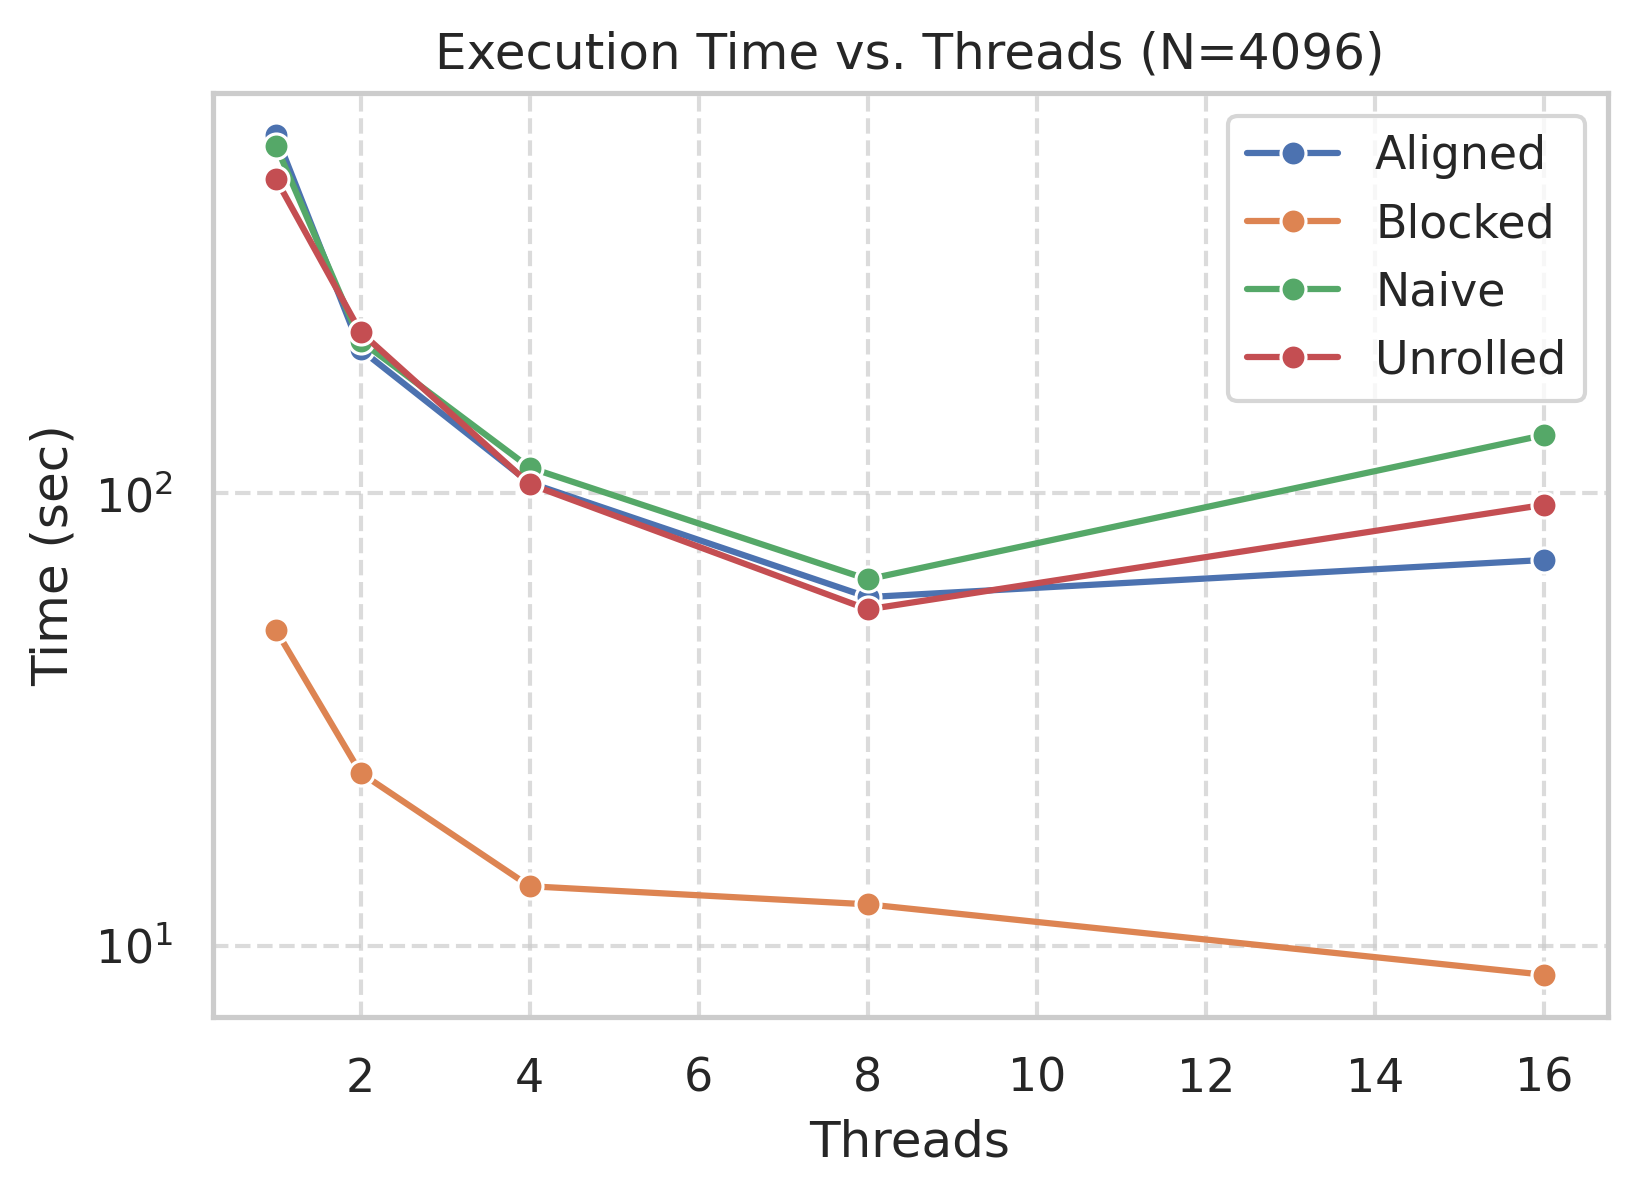
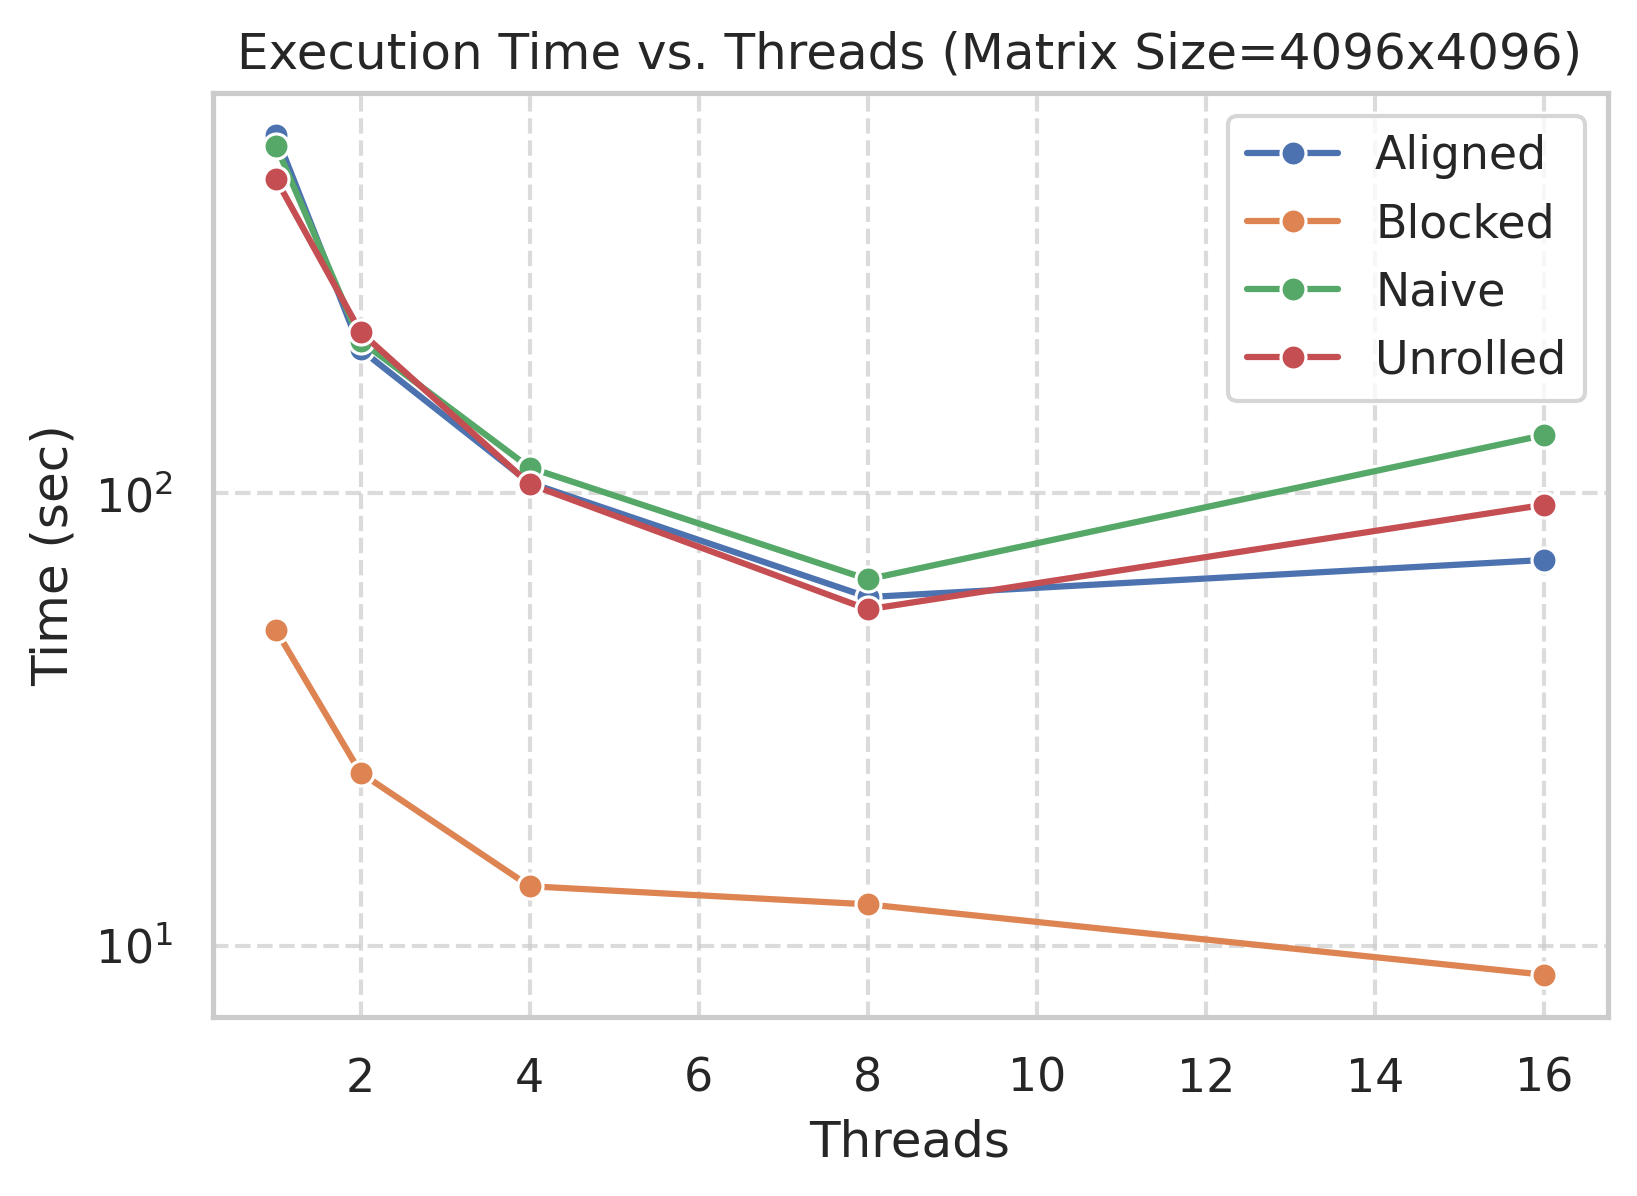
update graphs label

Changed region(s): [[0.1246, 0.0, 0.9658, 0.0619]]

diff --git a/logs/final_results/draw_graph.py b/logs/final_results/draw_graph.py
@@ -277,7 +277,7 @@ def plot_l1_percentage_separate(df_l1, graph_dir, dpi=300):
             data=subset, x="Threads", y="L1_dcache_Perc",
             hue="Implementation", marker="o"
         )
-        plt.title(f"L1-dcache Miss % (N={size_val})")
+        plt.title(f"L1-dcache Miss % (Matrix Size={size_val}x{size_val})")
         plt.ylabel("L1-dcache Misses (%)")
         plt.xlabel("Threads")
         plt.ylim(0, None)
@@ -312,7 +312,7 @@ def plot_llc_percentage_separate(df_llc, graph_dir, dpi=300):
             data=subset, x="Threads", y="LLC_miss_Perc",
             hue="Implementation", marker="o"
         )
-        plt.title(f"LLC-load Miss % (N={size_val})")
+        plt.title(f"LLC-load Miss % (Matrix Size={size_val}x{size_val})")
         plt.ylabel("LLC-load Misses (%)")
         plt.xlabel("Threads")
         plt.ylim(0, None)
@@ -347,7 +347,7 @@ def plot_cpu_util_separate(df_cpu, graph_dir, dpi=300):
             data=subset, x="Threads", y="CPU_Utilization",
             hue="Implementation", marker="o"
         )
-        plt.title(f"CPU Utilization (N={size_val})")
+        plt.title(f"CPU Utilization (Matrix Size={size_val}x{size_val})")
         plt.ylabel("CPU Utilization (%)")
         plt.xlabel("Threads")
         plt.ylim(0, 100)
@@ -384,7 +384,7 @@ def plot_execution_time_separate(df_time, graph_dir, dpi=300):
             data=subset, x="Threads", y="Time",
             hue="Implementation", marker="o"
         )
-        plt.title(f"Execution Time vs. Threads (N={size_val})")
+        plt.title(f"Execution Time vs. Threads (Matrix Size={size_val}x{size_val})")
         plt.ylabel("Time (sec)")
         plt.xlabel("Threads")
         plt.yscale("log")  # optional: log scale
@@ -421,7 +421,7 @@ def plot_execution_time_separate(df_time, graph_dir, dpi=300):
                 data=df_speedup, x="Threads", y="Speedup",
                 hue="Implementation", marker="o"
             )
-            plt.title(f"Speedup vs. Threads (N={size_val})")
+            plt.title(f"Speedup vs. Threads (Matrix Size={size_val}x{size_val})")
             plt.ylabel("Speedup (T1/Tn)")
             plt.xlabel("Threads")
             plt.ylim(0, None)
